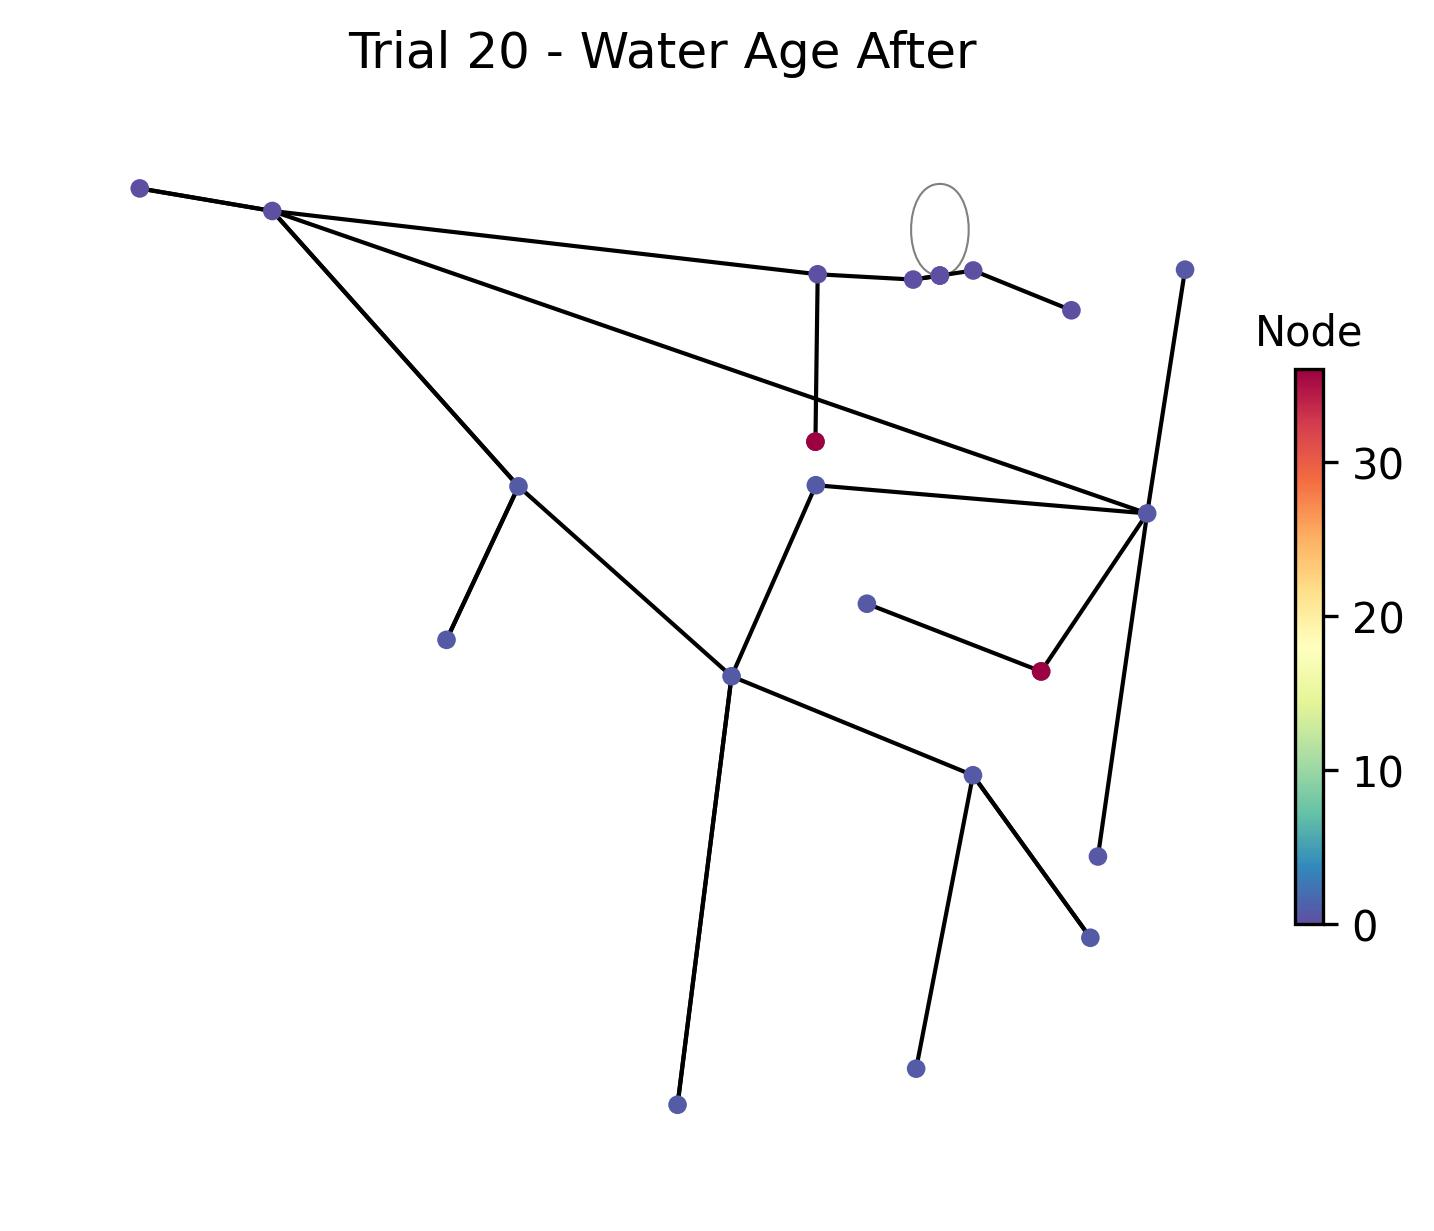
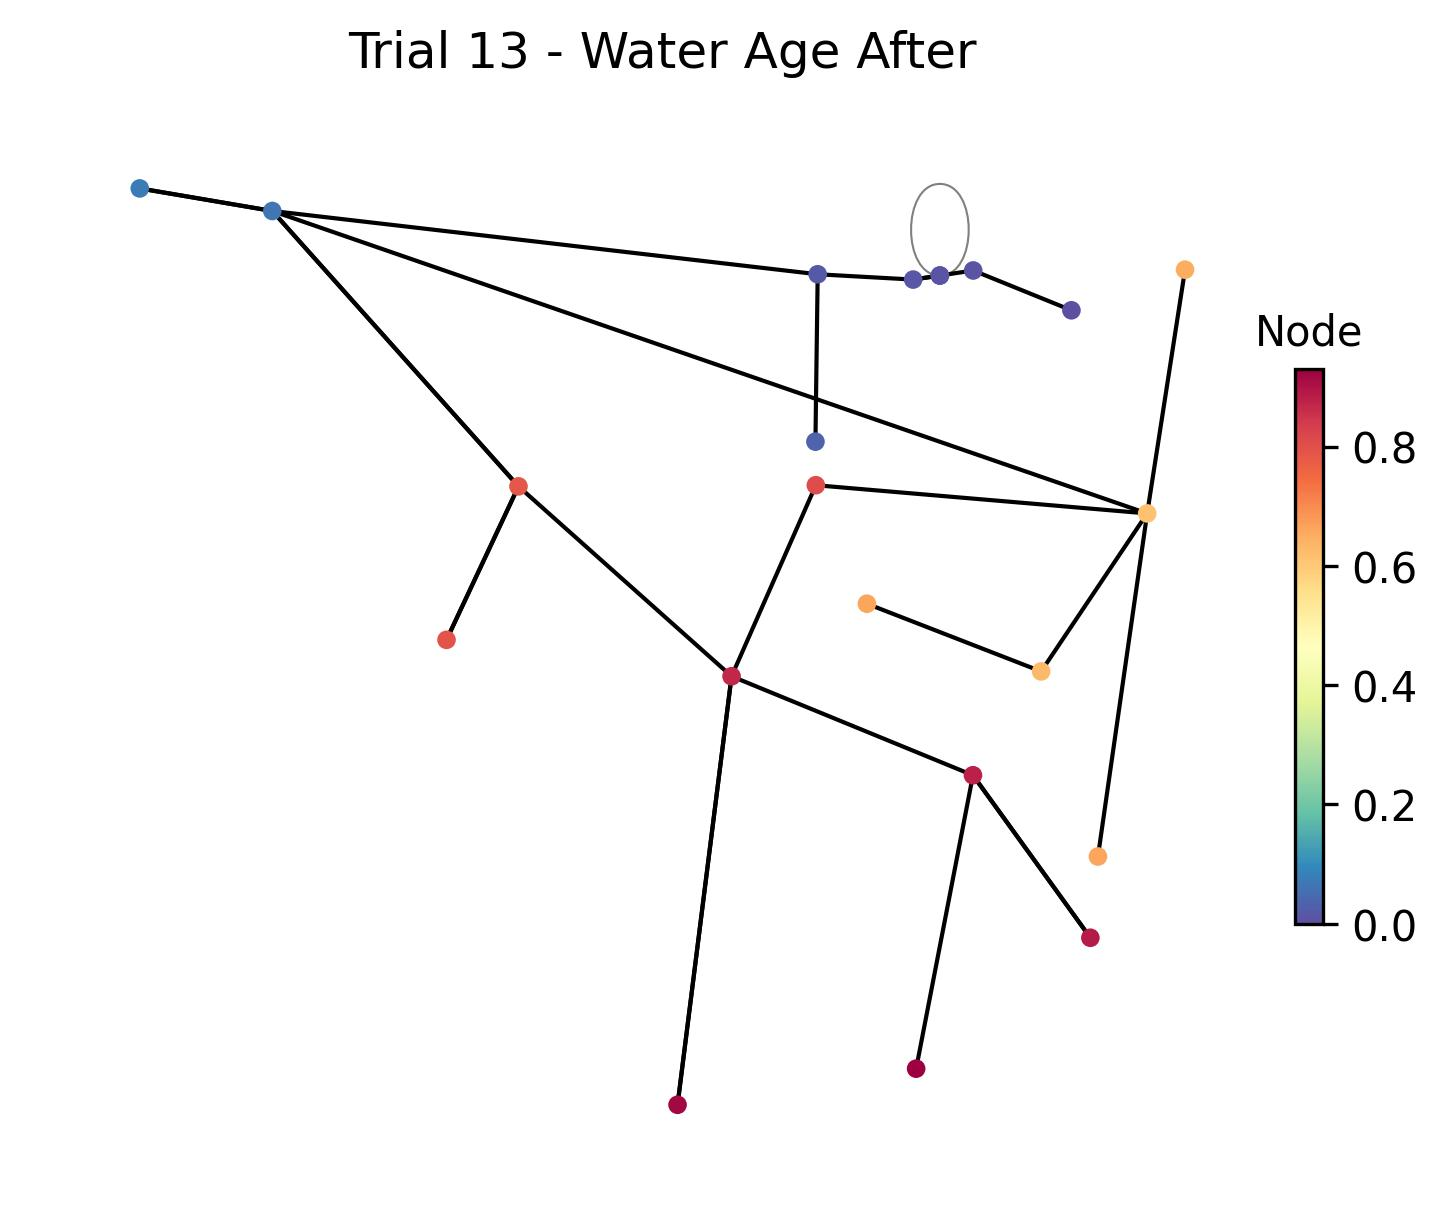
Made some changes

diff --git a/src/resilience/optimizers.py b/src/resilience/optimizers.py
@@ -37,29 +37,34 @@ def search_best_resilience_parameters(network_path, age_before, loss_before, pum
 
             # Param bounds based on network size
             if node_count < 50:
-                leak_factor = 1.05
-                aging_factor = 0.95
                 pressure_range = (20, 35)
                 max_pump_range = (0, 2)
                 max_tanks = random.randint(0, 2)
                 loop_count = random.randint(0, 3)
                 threshold_population = 25
             elif node_count < 100:
-                leak_factor = 1.2
-                aging_factor = 0.9
                 pressure_range = (30, 50)
                 max_pump_range = (1, 4)
                 max_tanks = random.randint(0, 4)
                 loop_count = random.randint(2, 6)
                 threshold_population = 50
             else:
-                leak_factor = 1.4
-                aging_factor = 0.8
                 pressure_range = (30, 70)
                 max_pump_range = (3, 8)
                 max_tanks = random.randint(1, 6)
                 loop_count = random.randint(5, 12)
                 threshold_population = 100
+            situation='Emergency situation'
+
+            if situation=='Emergency situation':
+                leak_factor=1.4
+                aging_factor=0.8
+            elif situation=='UAE standards':
+                leak_factor=1.1
+                aging_factor=0.9
+            elif situation=='Extreme Emergency situation':
+                leak_factor=1.6
+                aging_factor=0.5
 
             required_pressure = round(random.uniform(*pressure_range), 1)
             max_pumps = random.randint(*max_pump_range)

diff --git a/src/main.py b/src/main.py
@@ -30,21 +30,29 @@ os.makedirs(AF_VISUALIZATIONS_PATH,exist_ok=True)
 wn=load_network(NETWORK_PATH)
 
 if len(wn.junction_name_list) < 50:
-    leak_factor = 1.05
-    aging_factor = 0.95
     threshold_population = 25
             
 elif len(wn.junction_name_list) < 100:
-    leak_factor = 1.2
-    aging_factor = 0.85
+
     threshold_population = 50
 
 else:
-    leak_factor = 1.4
-    aging_factor = 0.8
+
     threshold_population = 100
 
-        
+situation='UAE standards'
+
+if situation=='Emergency situation':
+    leak_factor=1.4
+    aging_factor=0.8
+elif situation=='UAE standards':
+    leak_factor=1.1
+    aging_factor=0.9
+elif situation=='Extreme Emergency situation':
+    leak_factor=1.6
+    aging_factor=0.5
+
+
 avg_pressure=average_pressure_cv(wn)
 print("\nThe average pressure of network is:",avg_pressure)
 
